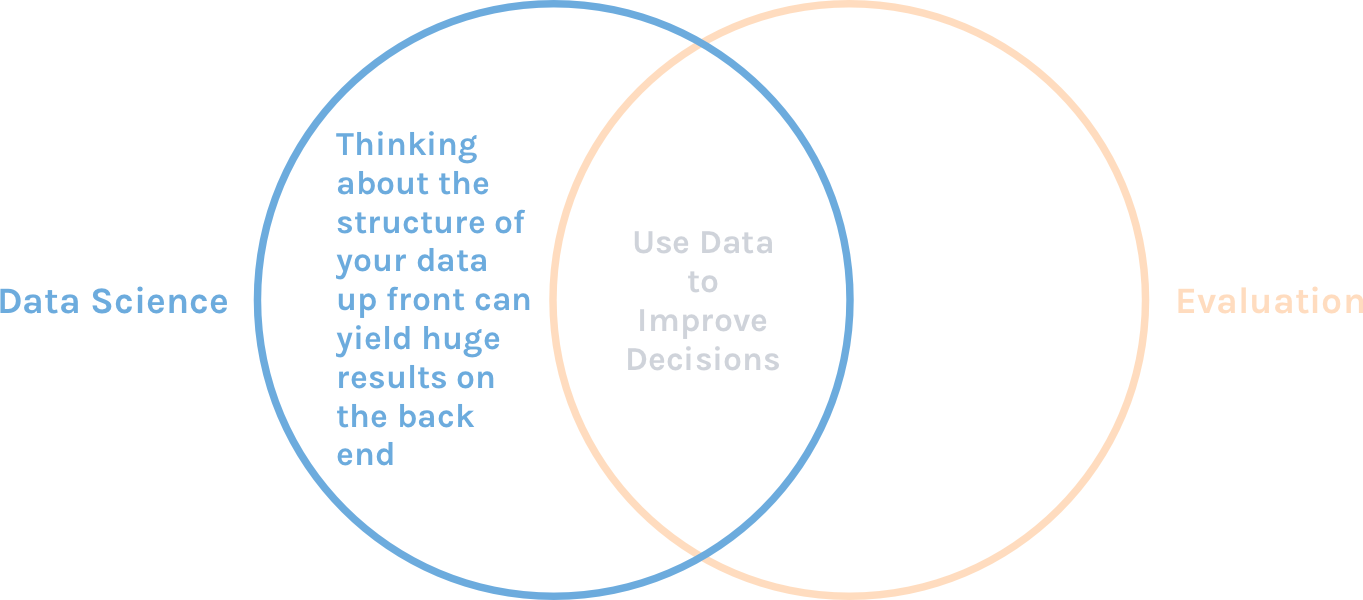
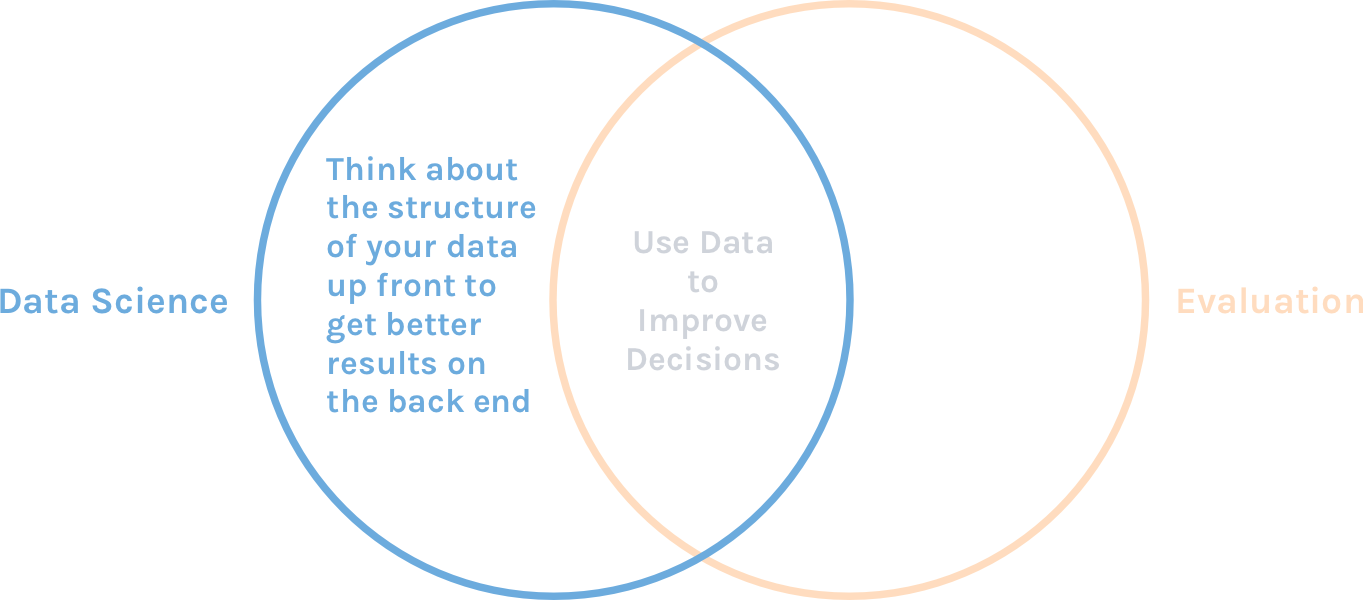
Final version

Changed region(s): [[0.2157, 0.21, 0.4006, 0.72], [0.2465, 0.75, 0.3081, 0.78]]

diff --git a/slides.html b/slides.html
@@ -26,7 +26,7 @@ layout: true
   
 &lt;div class="dk-footer"&gt;
 &lt;span&gt;
-&lt;a href="https://rfortherestofus.com/" target="_blank"&gt;R for the Rest of Us
+&lt;!-- &lt;a href="https://rfortherestofus.com/" target="_blank"&gt;David Keyes / R for the Rest of Us --&gt;
 &lt;/a&gt;
 &lt;/span&gt;
 &lt;/div&gt; 
@@ -72,7 +72,7 @@ class: center, middle
 
 class: inverse, dk-section-title, middle, center
 
-# My Path to "Data Science"
+# My Path to&lt;br&gt;"Data Science"
 
 ---
 
@@ -129,7 +129,7 @@ class: center, middle
 
 - Sexy field today, both for orgs and individuals
 - Branding exercise to get more cache + $
-- But if we only
+- But if we only think of it as the stats part, we're missing a whole side of what data scientists do 
 
 ---
 
@@ -146,36 +146,112 @@ class: inverse, dk-section-title, middle, center
 
 ---
 
-class: inverse, dk-section-title, middle, center
+class: inverse, dk-section-title, middle
 
 background-image: url("images/mistake.jpg")
 
-## Lesson #1&lt;br&gt;You will make mistakes. &lt;br&gt;Catch them before it's too late. 
+## Lesson #1&lt;br&gt;Make your work transparent&lt;br&gt;to catch mistakes&lt;br&gt;before it’s too late
+
+???
+
+- We all make mistakes. Question is just whether we see them before we send out results. 
+- Give example of ODS project when I kept having to redownload data and didn't know how I had merged it.
+- Code is just a written out version of your work process. Anyone should be able to read it and know what you did. 
 
 
----
-
-class: inverse, dk-section-title, middle, center
-
-## Lesson #2&lt;br&gt;Think about the structure of your data up front to save yourself time on the back end
-
----
-
-class: inverse, dk-section-title, middle, center
-
-## Lesson #3
-
-![](images/automate-all-the-things.jpg)
 
 ---
 
-class: inverse, dk-section-title, middle, center
+class: inverse, dk-section-title, middle
+
+background-image: url("images/structure.jpg")
+
+## Lesson #2&lt;br&gt;Think about the&lt;br&gt;structure of your data up front&lt;br&gt;to get better results on the back end
+
+???
+
+- Common for data scientists to complain about messy data
+- As evaluators, we have advantage of collecting data
+- Don't separate out data colletion and analysis stages in your planning
+- Do things like use validation in forms to ensure you get data you can use
+
+---
+
+class: inverse, dk-section-title, middle
+
+background-image: url("images/automate.jpg")
+
+## Lesson #3&lt;br&gt;Automate all the things!
+
+&lt;!-- ![](images/automate-all-the-things.jpg) --&gt;
+
+???
+
+- If you know the structure of data, you can analyze it automatically
+- You can automate data cleaning, analysis, and reporting (i.e. not just reporting)
+- You can do this in Excel as well (give example of Reading Partners)
+- Give example of how I produced report automatically for webinar
+- You then have more time to think about what the data *means*
+
+---
+
+class: inverse, dk-section-title, middle
+
+background-image: url("images/workflow.jpg")
+
 
 ## Lesson #4&lt;br&gt;R is a Workflow Tool
 
+???
+
+- Sharla's example
+- R isn't just for complex statistical analyses. RMarkdown can improve your workflow tremendously.
+
 ---
 
-# A Little Bit of Coding Goes a Long Way
+class: center, middle
+
+![](images/sharla-tweet-thread.gif)
+
+
+---
+
+class: middle
+
+# Don't Just Work *in* your Data&lt;br&gt;Also Work *on* Your Data
+
+???
+
+- From e-myth book
+- Don't just analyze your data. Think also in meta ways about your data. 
+
+
+---
+
+class: middle
+
+# A Little Bit of Code Goes a Long Way
+
+--
+
+&gt; Learning R really doesn’t have to be about learning statistical models or advanced computation methods. I have a masters degree in Statistics and the most statistical thing I do these days is calculate a median.
+
+&gt; Sharla Gelfand
+
+---
+
+class: middle
+
+# R:&lt;br&gt;Inefficient at the Start&lt;br&gt;Waaaaaayyyy More Efficient With Time
+
+---
+
+![](slides_files/figure-html/unnamed-chunk-2-1.png)&lt;!-- --&gt;
+
+???
+
+- Never Having to redo report with mistake in it: priceless
+- Learning how to code is not just about doing stats, it's also about workflow
     </textarea>
 <style data-target="print-only">@media screen {.remark-slide-container{display:block;}.remark-slide-scaler{box-shadow:none;}}</style>
 <script src="https://remarkjs.com/downloads/remark-latest.min.js"></script>

diff --git a/style.css b/style.css
@@ -88,6 +88,8 @@ a , a > code {
 }
 
 
+
+
 /* Footer */
 
 .remark-slide-number {
@@ -212,4 +214,8 @@ div.dk-footer a {
 .toc-content p {
   font-size: 18px;
   margin: 18px 0;
+}
+
+.background-image{
+  
 }
